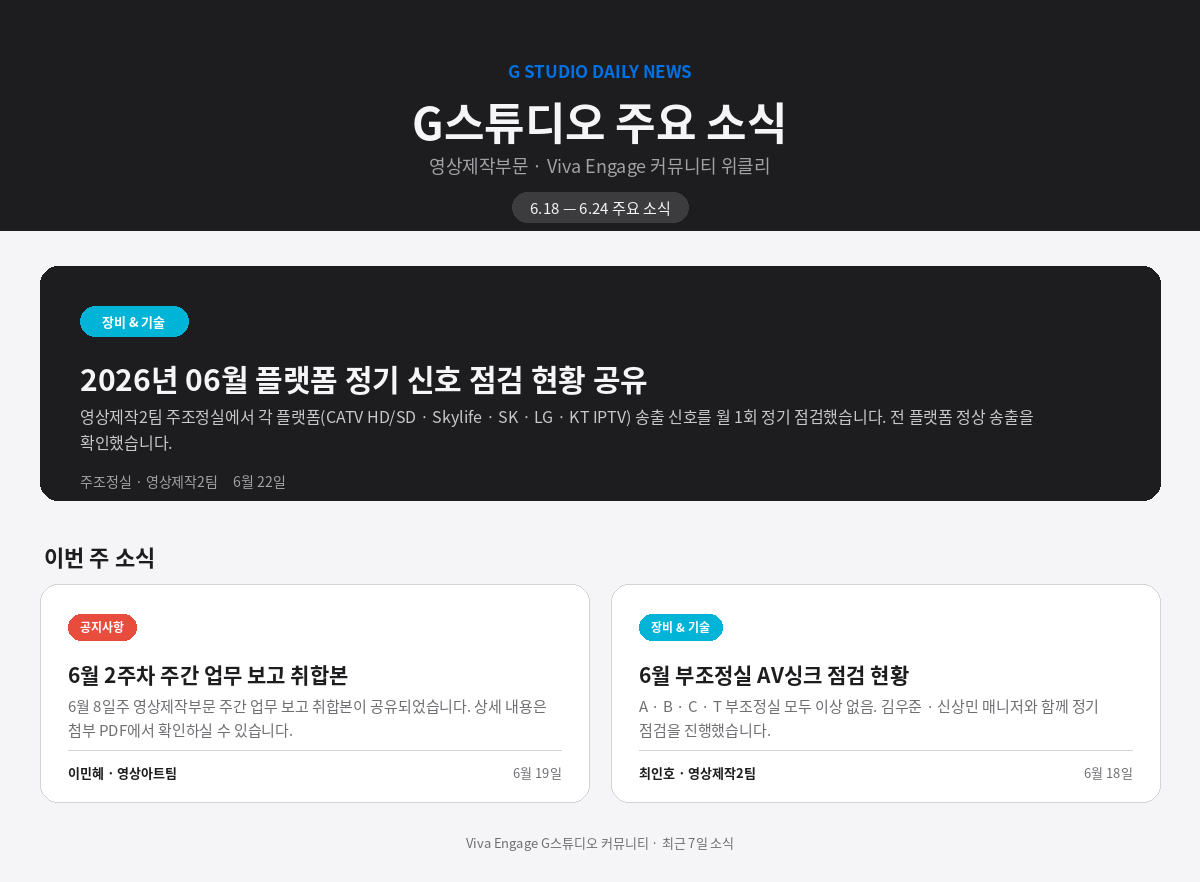
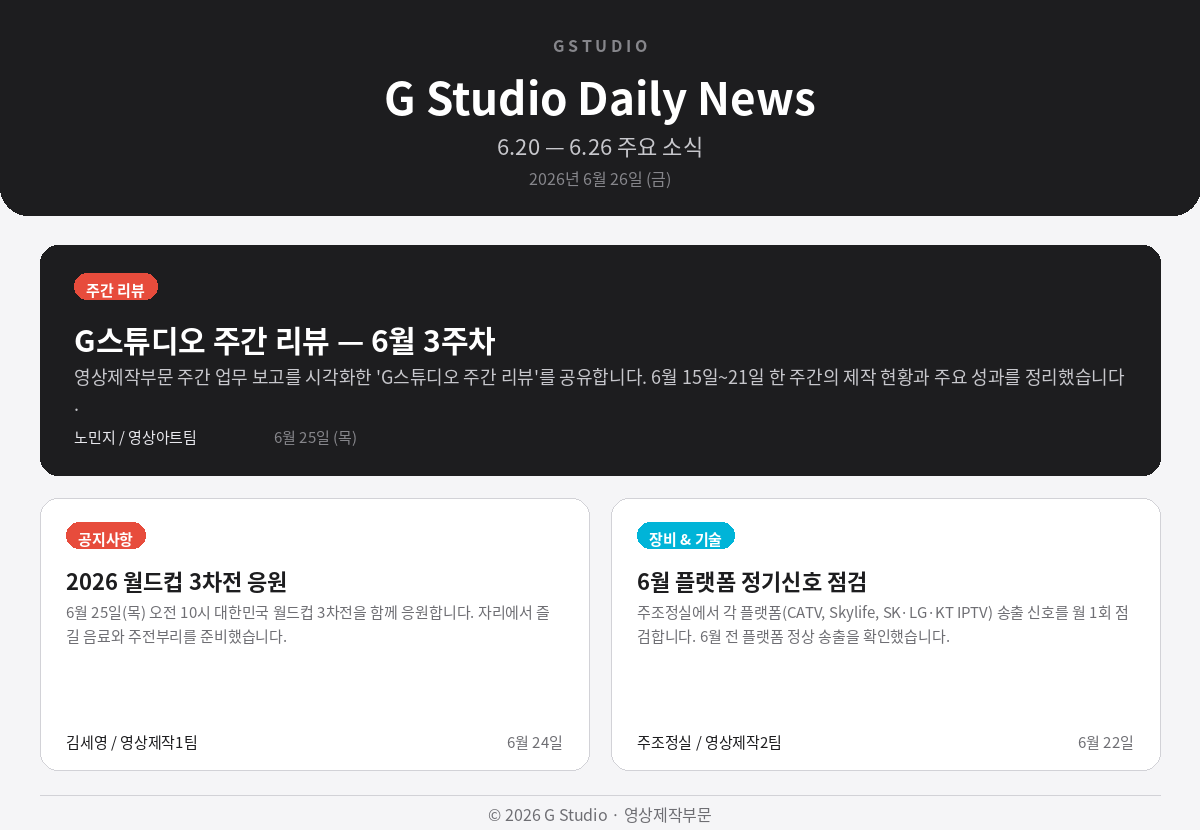
Daily News Update - 2026.06.26

diff --git a/index.html b/index.html
@@ -3,124 +3,162 @@
 <head>
 <meta charset="UTF-8">
 <meta name="viewport" content="width=device-width, initial-scale=1.0">
-<title>G Studio Daily News — 2026.06.24</title>
+<title>G Studio Daily News — 2026.06.26</title>
 <style>
-:root{
-  --apple-bg:#FFFFFF; --apple-surface:#F5F5F7; --apple-text-primary:#1D1D1F;
-  --apple-text-secondary:#6E6E73; --apple-blue:#0071E3; --apple-border:#D2D2D7;
-  --apple-radius:18px; --apple-shadow:0 2px 12px rgba(0,0,0,0.08);
-  --hero-bg:#1D1D1F; --hero-text:#F5F5F7; --featured-bg:#1D1D1F;
-}
-*{margin:0;padding:0;box-sizing:border-box;}
-body{font-family:-apple-system,BlinkMacSystemFont,"SF Pro Display","Helvetica Neue","Apple SD Gothic Neo","Pretendard",sans-serif;
-  background:var(--apple-surface);color:var(--apple-text-primary);
-  -webkit-font-smoothing:antialiased;line-height:1.5;}
-.wrap{max-width:1200px;margin:0 auto;padding:0 20px 60px;}
+  :root{
+    --apple-bg:#FFFFFF;
+    --apple-surface:#F5F5F7;
+    --apple-text-primary:#1D1D1F;
+    --apple-text-secondary:#6E6E73;
+    --apple-blue:#0071E3;
+    --apple-border:#D2D2D7;
+    --apple-radius:18px;
+    --apple-shadow:0 2px 12px rgba(0,0,0,0.08);
+    --hero-bg:#1D1D1F;
+    --hero-text:#F5F5F7;
+    --featured-bg:#1D1D1F;
+  }
+  *{margin:0;padding:0;box-sizing:border-box;}
+  body{
+    font-family:-apple-system,BlinkMacSystemFont,"SF Pro KR","Apple SD Gothic Neo","Pretendard","Segoe UI",sans-serif;
+    background:var(--apple-surface);
+    color:var(--apple-text-primary);
+    -webkit-font-smoothing:antialiased;
+    line-height:1.5;
+  }
+  .wrap{max-width:1200px;margin:0 auto;padding:0 20px 60px;}
 
-/* Hero */
-.hero{background:var(--hero-bg);color:var(--hero-text);border-radius:0 0 32px 32px;
-  padding:64px 40px 56px;text-align:center;}
-.hero-logo{font-size:15px;font-weight:600;letter-spacing:4px;color:var(--apple-blue);
-  text-transform:uppercase;margin-bottom:18px;}
-.hero-title{font-size:46px;font-weight:700;letter-spacing:-1px;margin-bottom:14px;}
-.hero-sub{font-size:19px;font-weight:400;color:#A1A1A6;}
-.hero-date{display:inline-block;margin-top:22px;font-size:14px;font-weight:500;
-  color:var(--hero-text);background:rgba(255,255,255,0.1);padding:8px 18px;border-radius:980px;}
+  /* Hero */
+  .hero{
+    background:var(--hero-bg);
+    color:var(--hero-text);
+    border-radius:0 0 28px 28px;
+    padding:56px 40px 48px;
+    margin-bottom:36px;
+    text-align:center;
+  }
+  .hero-logo{
+    font-size:15px;font-weight:600;letter-spacing:4px;
+    color:#A1A1A6;text-transform:uppercase;margin-bottom:18px;
+  }
+  .hero-title{
+    font-size:46px;font-weight:700;letter-spacing:-1px;margin-bottom:14px;
+  }
+  .hero-title .accent{
+    background:linear-gradient(90deg,#0071E3,#34C7E3);
+    -webkit-background-clip:text;background-clip:text;-webkit-text-fill-color:transparent;
+  }
+  .hero-sub{font-size:19px;color:#C7C7CC;font-weight:400;}
+  .hero-date{font-size:15px;color:#86868B;margin-top:10px;}
 
-/* Featured */
-.featured{background:var(--featured-bg);color:var(--hero-text);border-radius:var(--apple-radius);
-  padding:44px 40px;margin-top:36px;box-shadow:var(--apple-shadow);
-  display:block;text-decoration:none;transition:transform .25s ease;}
-.featured:hover{transform:translateY(-4px);}
-.featured .badge{display:inline-block;font-size:12px;font-weight:700;letter-spacing:.5px;
-  padding:6px 14px;border-radius:980px;color:#fff;margin-bottom:20px;}
-.featured-title{font-size:32px;font-weight:700;letter-spacing:-.5px;color:var(--hero-text);
-  margin-bottom:14px;line-height:1.25;}
-.featured-desc{font-size:17px;color:#C7C7CC;margin-bottom:26px;max-width:760px;}
-.featured-meta{display:flex;gap:16px;align-items:center;font-size:14px;color:#A1A1A6;}
-.featured-meta .author{font-weight:600;color:var(--hero-text);}
+  /* Featured */
+  .featured{
+    background:var(--featured-bg);
+    color:var(--hero-text);
+    border-radius:var(--apple-radius);
+    padding:40px;
+    margin-bottom:28px;
+    box-shadow:var(--apple-shadow);
+    display:block;text-decoration:none;
+    transition:transform .25s ease,box-shadow .25s ease;
+  }
+  .featured:hover{transform:translateY(-3px);box-shadow:0 8px 28px rgba(0,0,0,0.25);}
+  .featured .badge{
+    display:inline-block;font-size:12px;font-weight:600;letter-spacing:.5px;
+    padding:6px 14px;border-radius:980px;color:#fff;margin-bottom:18px;
+  }
+  .featured h2{font-size:30px;font-weight:700;letter-spacing:-.5px;color:#fff;margin-bottom:14px;line-height:1.25;}
+  .featured p{font-size:17px;color:#C7C7CC;margin-bottom:22px;max-width:760px;}
+  .featured .meta{font-size:14px;color:#86868B;display:flex;gap:16px;align-items:center;}
+  .featured .meta .author{color:#E8E8ED;font-weight:600;}
 
-/* Section label */
-.sec-label{font-size:22px;font-weight:700;letter-spacing:-.3px;margin:44px 4px 20px;}
+  /* Grid */
+  .grid{display:grid;grid-template-columns:repeat(2,1fr);gap:22px;}
+  .card{
+    background:var(--apple-bg);
+    border:1px solid var(--apple-border);
+    border-radius:var(--apple-radius);
+    padding:28px;
+    text-decoration:none;color:inherit;
+    box-shadow:var(--apple-shadow);
+    display:flex;flex-direction:column;
+    transition:transform .25s ease,box-shadow .25s ease;
+  }
+  .card:hover{transform:translateY(-3px);box-shadow:0 8px 24px rgba(0,0,0,0.12);}
+  .card .badge{
+    display:inline-block;align-self:flex-start;font-size:11px;font-weight:600;letter-spacing:.4px;
+    padding:5px 12px;border-radius:980px;color:#fff;margin-bottom:16px;
+  }
+  .card h3{font-size:20px;font-weight:700;letter-spacing:-.3px;margin-bottom:10px;line-height:1.3;}
+  .card p{font-size:15px;color:var(--apple-text-secondary);margin-bottom:20px;flex:1;}
+  .card .meta{font-size:13px;color:var(--apple-text-secondary);display:flex;gap:12px;align-items:center;}
+  .card .meta .author{color:var(--apple-text-primary);font-weight:600;}
 
-/* Grid */
-.grid{display:grid;grid-template-columns:repeat(2,1fr);gap:22px;}
-.card{background:var(--apple-bg);border:1px solid var(--apple-border);
-  border-radius:var(--apple-radius);padding:30px 28px;text-decoration:none;color:inherit;
-  box-shadow:var(--apple-shadow);transition:transform .25s ease,box-shadow .25s ease;
-  display:flex;flex-direction:column;min-height:200px;}
-.card:hover{transform:translateY(-4px);box-shadow:0 10px 28px rgba(0,0,0,0.12);}
-.card .badge{display:inline-block;align-self:flex-start;font-size:11.5px;font-weight:700;
-  letter-spacing:.4px;padding:5px 12px;border-radius:980px;color:#fff;margin-bottom:16px;}
-.card-title{font-size:21px;font-weight:700;letter-spacing:-.3px;margin-bottom:10px;line-height:1.3;}
-.card-desc{font-size:15px;color:var(--apple-text-secondary);flex-grow:1;}
-.card-meta{display:flex;justify-content:space-between;align-items:center;
-  margin-top:22px;padding-top:16px;border-top:1px solid var(--apple-border);
-  font-size:13px;color:var(--apple-text-secondary);}
-.card-meta .author{font-weight:600;color:var(--apple-text-primary);}
+  /* Footer */
+  .footer{
+    text-align:center;margin-top:48px;padding-top:28px;
+    border-top:1px solid var(--apple-border);
+    color:var(--apple-text-secondary);font-size:13px;
+  }
+  .footer a{color:var(--apple-blue);text-decoration:none;}
 
-/* Footer */
-.footer{text-align:center;margin-top:56px;padding-top:30px;border-top:1px solid var(--apple-border);
-  color:var(--apple-text-secondary);font-size:13px;}
-.footer a{color:var(--apple-blue);text-decoration:none;font-weight:500;}
-
-@media(max-width:760px){
-  .hero{padding:48px 24px 40px;}
-  .hero-title{font-size:32px;}
-  .hero-sub{font-size:16px;}
-  .featured{padding:32px 26px;}
-  .featured-title{font-size:24px;}
-  .grid{grid-template-columns:1fr;}
-}
+  @media(max-width:768px){
+    .hero{padding:44px 24px 38px;border-radius:0 0 22px 22px;}
+    .hero-title{font-size:34px;}
+    .hero-sub{font-size:17px;}
+    .featured{padding:30px;}
+    .featured h2{font-size:24px;}
+    .grid{grid-template-columns:1fr;}
+  }
 </style>
 </head>
 <body>
-<header class="hero">
-  <div class="hero-logo">G Studio Daily News</div>
-  <h1 class="hero-title">G스튜디오 주요 소식</h1>
-  <p class="hero-sub">영상제작부문 · Viva Engage 커뮤니티 위클리</p>
-  <span class="hero-date">6.18 — 6.24 주요 소식</span>
-</header>
-
-<div class="wrap">
-
-  <!-- Featured: 가장 최신 게시물 -->
-  <a class="featured" href="https://engage.cloud.microsoft/main/org/gsretail.com/threads/eyJfdHlwZSI6IlRocmVhZCIsImlkIjoiMzkxMDkzODQ4ODA2MTk1MiJ9" target="_blank" rel="noopener">
-    <span class="badge" style="background:#00B4D8;">장비 &amp; 기술</span>
-    <h2 class="featured-title">2026년 06월 플랫폼 정기 신호 점검 현황 공유</h2>
-    <p class="featured-desc">영상제작2팀 주조정실에서 각 플랫폼(CATV HD/SD · Skylife · SK · LG · KT IPTV) 송출 신호를 월 1회 정기 점검했습니다. 전 플랫폼 정상 송출을 확인했으며, 점검 내용을 공유합니다.</p>
-    <div class="featured-meta">
-      <span class="author">주조정실 · 영상제작2팀</span>
-      <span>6월 22일</span>
-    </div>
-  </a>
-
-  <div class="sec-label">이번 주 소식</div>
-
-  <div class="grid">
-
-    <a class="card" href="https://engage.cloud.microsoft/main/org/gsretail.com/threads/eyJfdHlwZSI6IlRocmVhZCIsImlkIjoiMzkwNzA3NDUyMDY4NjU5MiJ9" target="_blank" rel="noopener">
-      <span class="badge" style="background:#E74C3C;">공지사항</span>
-      <h3 class="card-title">6월 2주차 주간 업무 보고 취합본</h3>
-      <p class="card-desc">6월 8일주 영상제작부문 주간 업무 보고 취합본이 공유되었습니다. 상세 내용은 첨부 PDF에서 확인하실 수 있습니다.</p>
-      <div class="card-meta"><span class="author">이민혜 · 영상아트팀</span><span>6월 19일</span></div>
-    </a>
-
-    <a class="card" href="https://engage.cloud.microsoft/main/org/gsretail.com/threads/eyJfdHlwZSI6IlRocmVhZCIsImlkIjoiMzkwNTY2ODY1MTE1NTQ1NiJ9" target="_blank" rel="noopener">
-      <span class="badge" style="background:#00B4D8;">장비 &amp; 기술</span>
-      <h3 class="card-title">6월 부조정실 AV싱크 점검 현황</h3>
-      <p class="card-desc">A · B · C · T 부조정실 모두 이상 없음. 김우준 · 신상민 매니저와 함께 정기 점검을 진행했습니다.</p>
-      <div class="card-meta"><span class="author">최인호 · 영상제작2팀</span><span>6월 18일</span></div>
-    </a>
-
+  <div class="hero">
+    <div class="hero-logo">G STUDIO</div>
+    <div class="hero-title">G Studio <span class="accent">Daily News</span></div>
+    <div class="hero-sub">6.20 — 6.26 주요 소식</div>
+    <div class="hero-date">2026년 6월 26일 (금)</div>
   </div>
 
-  <footer class="footer">
-    <p>본 카드뉴스는 Viva Engage <strong>G스튜디오</strong> 커뮤니티의 최근 7일간 게시물을 자동 정리한 것입니다.</p>
-    <p style="margin-top:8px;"><a href="https://engage.cloud.microsoft/main/org/gsretail.com/groups/eyJfdHlwZSI6Ikdyb3VwIiwiaWQiOiIxNzYxODQ3NDU5ODQifQ/all" target="_blank" rel="noopener">G Studio 커뮤니티 바로가기 →</a></p>
-    <p style="margin-top:14px;color:#86868B;">© 2026 GS retail · 영상제작부문 G Studio</p>
-  </footer>
+  <div class="wrap">
+    <!-- Featured -->
+    <a class="featured" href="https://engage.cloud.microsoft/main/org/gsretail.com/groups/eyJfdHlwZSI6Ikdyb3VwIiwiaWQiOiIxNzYxODQ3NDU5ODQifQ/all" target="_blank" rel="noopener">
+      <span class="badge" style="background:#E74C3C;">주간 리뷰</span>
+      <h2>G스튜디오 주간 리뷰 — 6월 3주차</h2>
+      <p>영상제작부문 주간 업무 보고를 시각화한 'G스튜디오 주간 리뷰'를 공유합니다. 6월 15일~21일 한 주간의 제작 현황과 주요 성과를 한눈에 정리했습니다. (첨부 9건)</p>
+      <div class="meta">
+        <span class="author">노민지 / 영상아트팀</span>
+        <span>6월 25일 (목)</span>
+      </div>
+    </a>
 
-</div>
+    <!-- Grid -->
+    <div class="grid">
+      <a class="card" href="https://engage.cloud.microsoft/main/org/gsretail.com/groups/eyJfdHlwZSI6Ikdyb3VwIiwiaWQiOiIxNzYxODQ3NDU5ODQifQ/all" target="_blank" rel="noopener">
+        <span class="badge" style="background:#E74C3C;">공지사항</span>
+        <h3>2026 월드컵 3차전 함께 응원해요 ⚽</h3>
+        <p>6월 25일(목) 오전 10시 대한민국 월드컵 3차전을 함께 응원합니다. 5층에 오지 못한 구성원도 자리에서 즐길 수 있도록 음료와 주전부리를 준비했습니다.</p>
+        <div class="meta">
+          <span class="author">김세영 / 영상제작1팀</span>
+          <span>6월 24일 (수)</span>
+        </div>
+      </a>
+
+      <a class="card" href="https://engage.cloud.microsoft/main/org/gsretail.com/groups/eyJfdHlwZSI6Ikdyb3VwIiwiaWQiOiIxNzYxODQ3NDU5ODQifQ/all" target="_blank" rel="noopener">
+        <span class="badge" style="background:#00B4D8;">장비 &amp; 기술</span>
+        <h3>2026년 6월 플랫폼 정기신호 점검</h3>
+        <p>주조정실에서 각 플랫폼(CATV HD/SD, Skylife, SK·LG·KT IPTV) 송출 신호를 월 1회 점검합니다. 6월 점검 결과 전 플랫폼 정상 송출을 확인했습니다.</p>
+        <div class="meta">
+          <span class="author">주조정실 / 영상제작2팀</span>
+          <span>6월 22일 (월)</span>
+        </div>
+      </a>
+    </div>
+
+    <div class="footer">
+      © 2026 G Studio · 영상제작부문 &nbsp;|&nbsp;
+      <a href="https://engage.cloud.microsoft/main/org/gsretail.com/groups/eyJfdHlwZSI6Ikdyb3VwIiwiaWQiOiIxNzYxODQ3NDU5ODQifQ/all" target="_blank" rel="noopener">G Studio 커뮤니티 바로가기</a>
+    </div>
+  </div>
 </body>
 </html>
